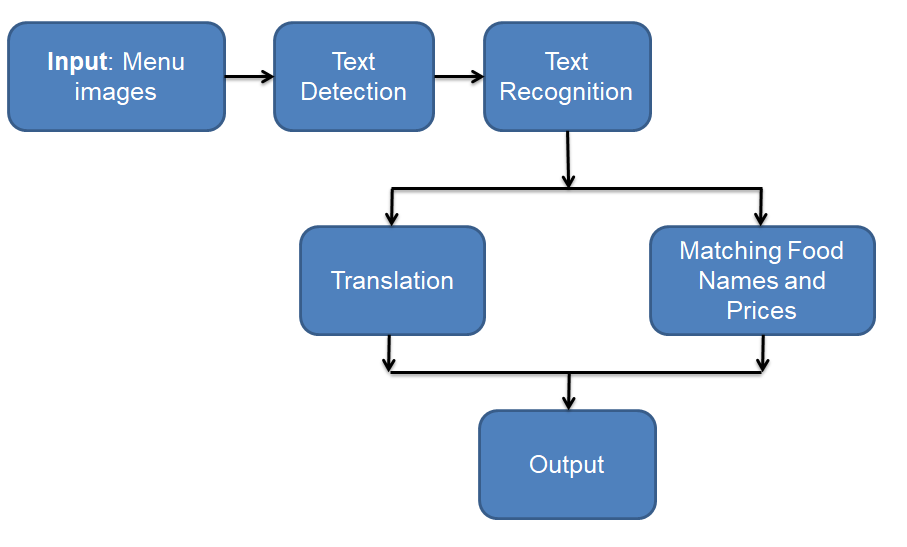
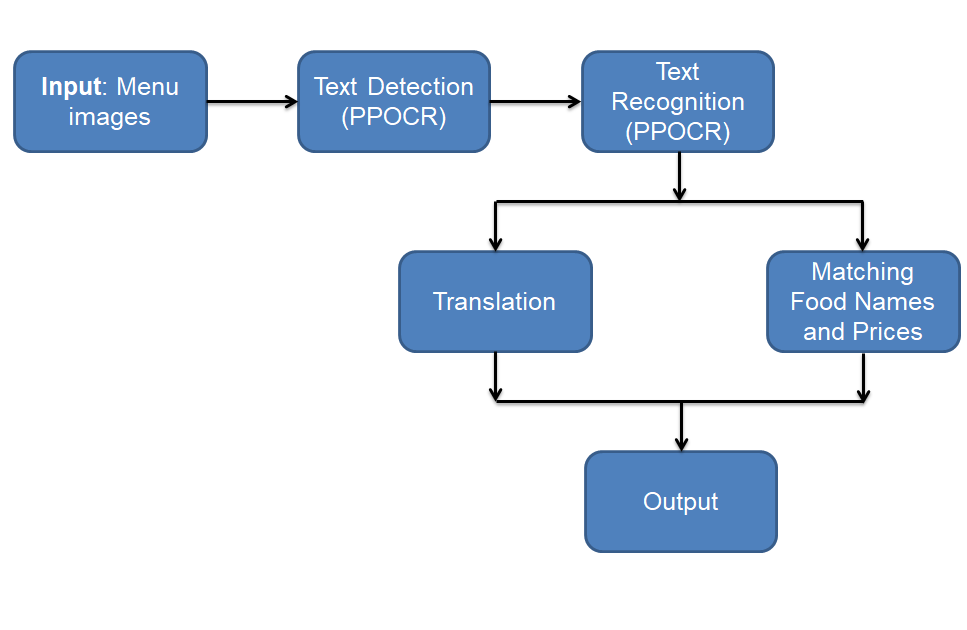
Edit REAMD.md file

Changed region(s): [[0.0, 0.0311, 1.0, 0.9634]]

diff --git a/README.md b/README.md
@@ -1,12 +1,10 @@
-# Desctiption
+# Description
 - Input: Menu images
 - Output: 
     - Merge food name and price
     - Translate Vietnamese to English
 
-# Problem Solving Strategies
-
-![](./images/Strategies.png)
+![](./images/Visualize.jpeg)
 
 ---
 
@@ -26,6 +24,12 @@ RapidFuzz](https://github.com/maxbachmann/RapidFuzz?fbclid=IwAR0HffzFqj1WiUuXYIT
 
 ---
 
+# Problem Solving Strategies
+
+![](./images/Strategies.png)
+
+---
+
 # Performance
 
 VinAI Dataset
@@ -36,7 +40,7 @@ VinAI Dataset
 | [**EAST-ResNet50_vd**](https://github.com/PaddlePaddle/PaddleOCR/blob/release/2.6/configs/det/det_r50_vd_east.yml) | [**PPOCRV3 (Quantization)**](https://github.com/PaddlePaddle/PaddleOCR/blob/release/2.6/configs/rec/PP-OCRv3/en_PP-OCRv3_rec.yml) | 16.0 *(s)* |
 | [**MobileNetV3**](https://github.com/PaddlePaddle/PaddleOCR/blob/release/2.6/configs/det/det_mv3_east.yml) | [**SVTR-Tiny**](https://github.com/PaddlePaddle/PaddleOCR/blob/release/2.6/configs/rec/rec_svtrnet.yml) | 13.0 *(s)* |
 | [**MobileNetV3**](https://github.com/PaddlePaddle/PaddleOCR/blob/release/2.6/configs/det/det_mv3_east.yml) | [**PPOCRV3 (Quantization)**](https://github.com/PaddlePaddle/PaddleOCR/blob/release/2.6/configs/rec/PP-OCRv3/en_PP-OCRv3_rec.yml) | 12.0 *(s)* |
-| [**PPOCRV3 (Convert ONNX)**](https://github.com/PaddlePaddle/PaddleOCR/blob/release/2.6/configs/det/ch_PP-OCRv3/ch_PP-OCRv3_det_student.yml) | [**PPOCRV3 (Convert ONNX)**](https://github.com/PaddlePaddle/PaddleOCR/blob/release/2.6/configs/rec/PP-OCRv3/en_PP-OCRv3_rec.yml) | 4.0 *(s)* |
+| [**PPOCRV3 (Convert ONNX)**](https://github.com/PaddlePaddle/PaddleOCR/blob/release/2.6/configs/det/ch_PP-OCRv3/ch_PP-OCRv3_det_student.yml) | [**PPOCRV3 (Convert ONNX)**](https://github.com/PaddlePaddle/PaddleOCR/blob/release/2.6/configs/rec/PP-OCRv3/en_PP-OCRv3_rec.yml) | 3.0 *(s)* |
 
 ---
 
